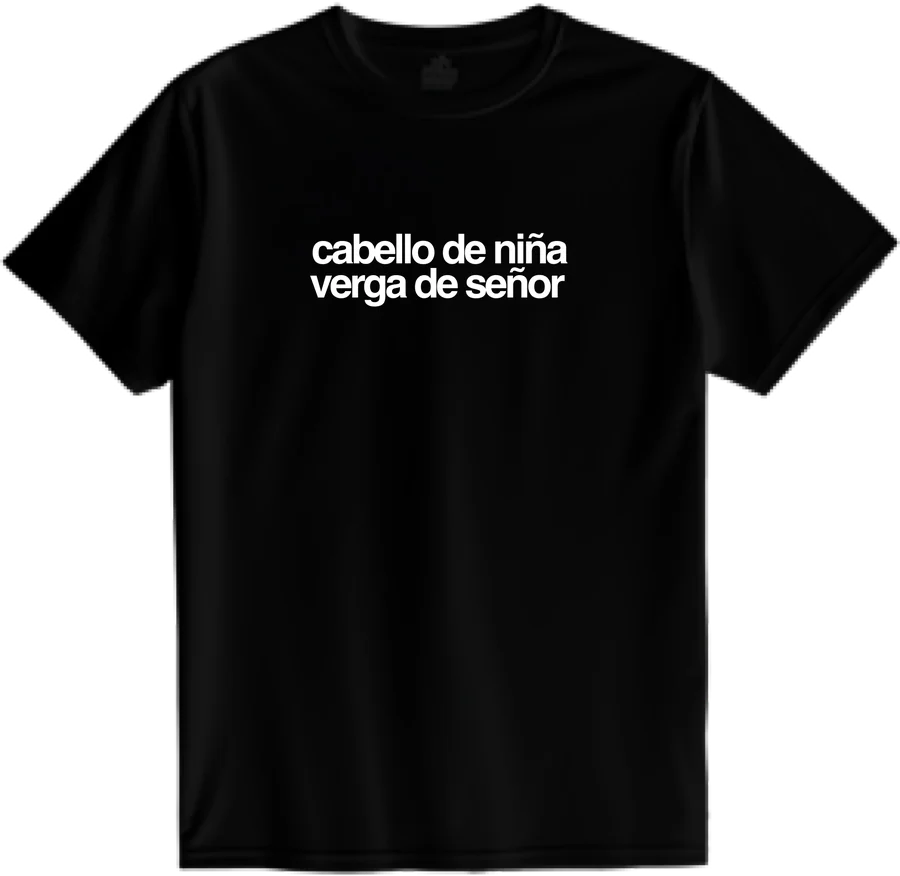
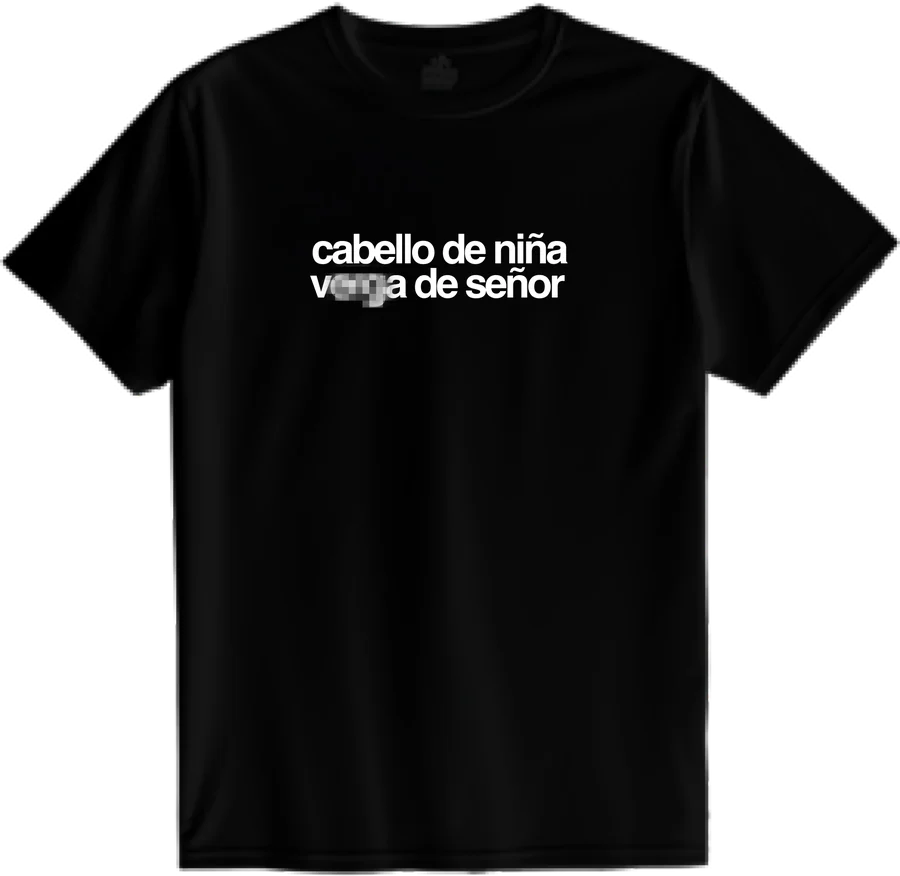
Foto editada de la playera Cabello de niña
Claude-Session: https://claude.ai/code/session_01UkPY19yqjwjBGLC83VqcjM

diff --git a/tienda.html b/tienda.html
@@ -145,7 +145,7 @@
             <a class="boton" href="#" aria-disabled="true" data-producto="brinco">Próximamente</a>
           </div>
           <div class="producto" id="cabello">
-            <div class="producto-foto con-foto"><img src="assets/img/merch/playera-cabello-de-nina.webp" alt="Playera negra que dice cabello de niña, verga de señor" loading="lazy"></div>
+            <div class="producto-foto con-foto"><img src="assets/img/merch/playera-cabello-de-nina.webp" alt="Playera negra que dice cabello de niña, v*rga de señor" loading="lazy"></div>
             <h3>Playera Cabello de niña</h3>
             <p class="chico" style="margin-top:8px">Negra con letras blancas. Tallas CH a XXG.</p>
             <p class="precio"><span data-precio="cabello">Muy pronto</span> <small class="mxn">MXN</small></p>
